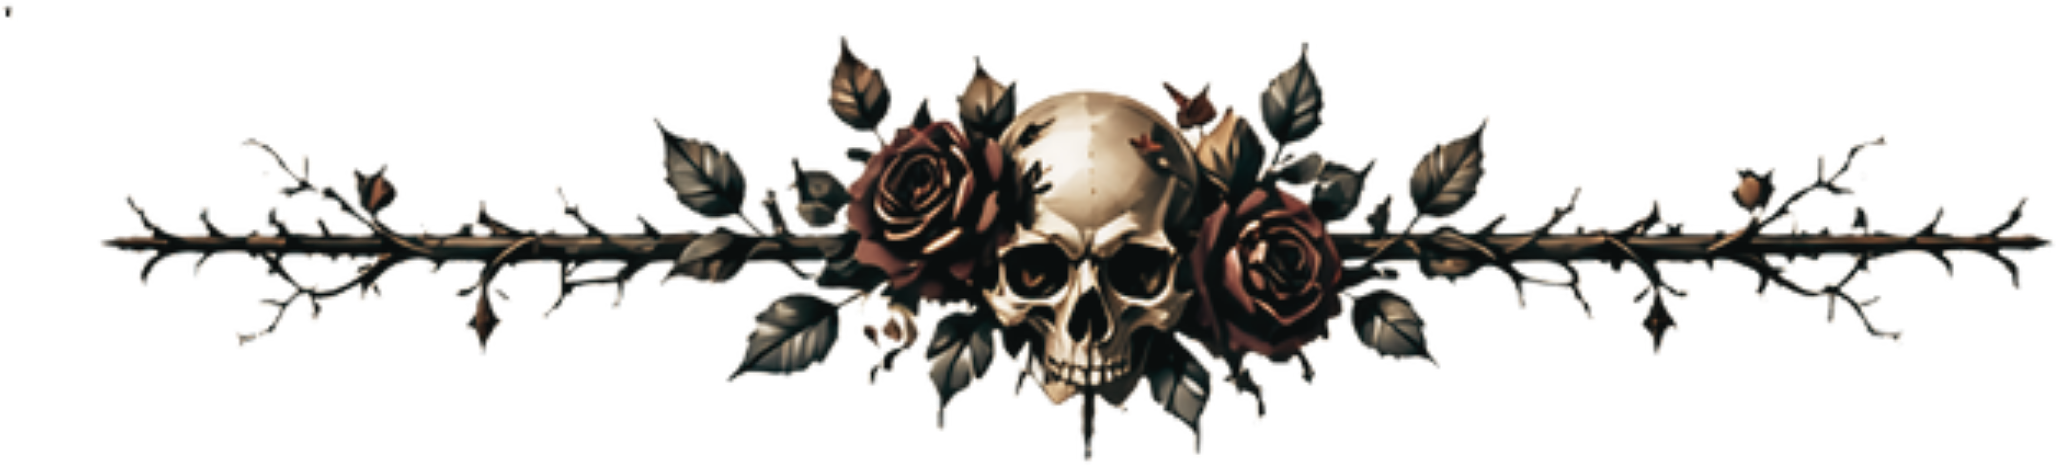
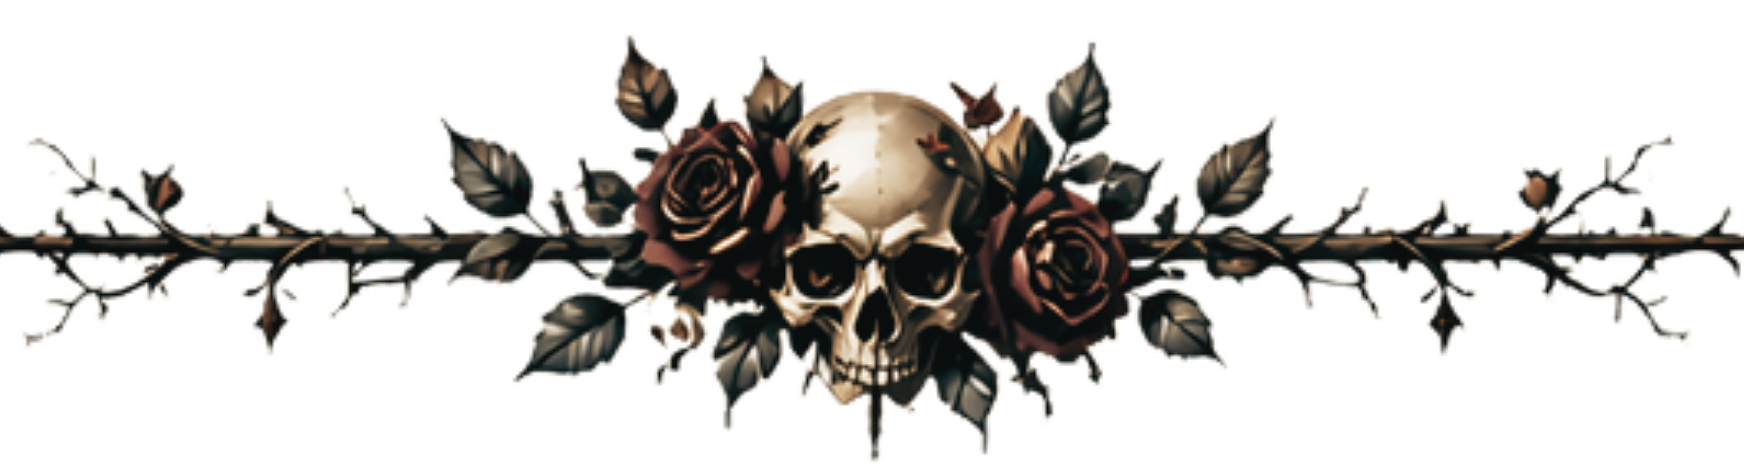
feat: implement gothic-themed design system, layout, and DecorativeDivider component

Changed region(s): [[0.0, 0.0903, 1.0, 0.9935], [0.0, 0.3011, 0.031, 0.3312]]

diff --git a/app/components/DecorativeDivider.vue b/app/components/DecorativeDivider.vue
@@ -1,99 +1,117 @@
 <template>
-  <div 
-    class="decorative-divider" 
-    :class="[`decorative-divider--${variant}`, `decorative-divider--${size}`]" 
-    aria-hidden="true"
-  >
-    <img 
-      :src="imageSrc" 
-      :alt="''" 
-      class="divider-image"
-      loading="lazy"
-    />
-  </div>
+    <div
+        class="decorative-divider"
+        :class="[
+            `decorative-divider--${variant}`,
+            `decorative-divider--${size}`,
+        ]"
+        aria-hidden="true"
+    >
+        <img :src="imageSrc" :alt="''" class="divider-image" loading="lazy" />
+    </div>
 </template>
 
 <script setup>
 const props = defineProps({
-  variant: {
-    type: String,
-    default: 'gothic-jewel',
-    validator: (v) => ['gothic-jewel', 'skull-roses', 'gothic-jewel-bottom', 'skull-roses-top'].includes(v)
-  },
-  size: {
-    type: String,
-    default: 'md',
-    validator: (v) => ['sm', 'md', 'lg'].includes(v)
-  }
+    variant: {
+        type: String,
+        default: "gothic-jewel",
+        validator: (v) =>
+            [
+                "gothic-jewel",
+                "skull-roses",
+                "gothic-jewel-bottom",
+                "skull-roses-top",
+            ].includes(v),
+    },
+    size: {
+        type: String,
+        default: "md",
+        validator: (v) => ["sm", "md", "lg"].includes(v),
+    },
 });
 
 const imageMap = {
-  'gothic-jewel': '/img/frames/horizontal_banner_center_gothic_jewel.png',
-  'skull-roses': '/img/frames/horizontal_banner_center_skull_roses.png',
-  'gothic-jewel-bottom': '/img/frames/horizontal_border_bottom_gothic_jewel_1.png',
-  'skull-roses-top': '/img/frames/horizontal_border_top_skulls_roses.png',
+    "gothic-jewel": "/img/frames/horizontal_banner_center_gothic_jewel.png",
+    "skull-roses": "/img/frames/horizontal_banner_center_skull_roses.png",
+    "gothic-jewel-bottom":
+        "/img/frames/horizontal_border_bottom_gothic_jewel_1.png",
+    "skull-roses-top": "/img/frames/horizontal_border_top_skulls_roses.png",
 };
 
-const imageSrc = computed(() => imageMap[props.variant] || imageMap['gothic-jewel']);
+const imageSrc = computed(
+    () => imageMap[props.variant] || imageMap["gothic-jewel"],
+);
 </script>
 
 <style scoped>
 .decorative-divider {
-  display: flex;
-  justify-content: center;
-  align-items: center;
-  width: 100%;
-  pointer-events: none;
-  user-select: none;
-  overflow: hidden;
+    display: flex;
+    justify-content: center;
+    align-items: center;
+    width: 100%;
+    height: 142px;
+    pointer-events: none;
+    user-select: none;
+    overflow: hidden;
 }
 
 .divider-image {
-  display: block;
-  width: 100%;
-  height: auto;
-  object-fit: contain;
-  filter: brightness(0.75) saturate(0.9);
-  opacity: 0.85;
-  transition: opacity 0.4s ease;
+    display: block;
+    width: 100%;
+    height: auto;
+    object-fit: contain;
+    filter: brightness(0.9) saturate(1)
+        drop-shadow(0 6px 15px rgba(0, 0, 0, 0.8));
+    opacity: 0.95;
+    transition: opacity 0.4s ease;
 }
 
 /* Size variants */
 .decorative-divider--sm .divider-image {
-  max-width: 280px;
+    max-width: 320px;
 }
 
 .decorative-divider--md .divider-image {
-  max-width: 480px;
+    max-width: 650px;
 }
 
 .decorative-divider--lg .divider-image {
-  max-width: 700px;
+    max-width: 900px;
 }
 
 /* Spacing */
 .decorative-divider--sm {
-  margin: 1rem auto;
+    margin: 1rem auto 0.25rem;
 }
 
 .decorative-divider--md {
-  margin: 1.5rem auto;
+    margin: 1.5rem auto 0.5rem;
 }
 
 .decorative-divider--lg {
-  margin: 2rem auto;
+    margin: 2rem auto 0.75rem;
 }
 
 /* Responsive: scale down on mobile */
-@media (max-width: 600px) {
-  .decorative-divider--sm .divider-image {
-    max-width: 180px;
-  }
-  .decorative-divider--md .divider-image {
-    max-width: 280px;
-  }
-  .decorative-divider--lg .divider-image {
-    max-width: 400px;
-  }
+@media (max-width: 768px) {
+    .decorative-divider--sm .divider-image {
+        max-width: 150px;
+    }
+    .decorative-divider--md .divider-image {
+        max-width: 220px;
+    }
+    .decorative-divider--lg .divider-image {
+        max-width: 320px;
+    }
+    .decorative-divider--sm {
+        margin: 0.75rem auto 0.15rem;
+    }
+    .decorative-divider--md {
+        margin: 1rem auto 0.25rem;
+    }
+    .decorative-divider--lg {
+        margin: 1.25rem auto 0.4rem;
+    }
 }
 </style>

diff --git a/app/layouts/default.vue b/app/layouts/default.vue
@@ -80,9 +80,6 @@
     </header>
 
     <main class="main-content">
-      <!-- Desktop vertical side borders -->
-      <div class="side-border side-border--left" aria-hidden="true"></div>
-      <div class="side-border side-border--right" aria-hidden="true"></div>
       <slot />
     </main>
 
@@ -470,51 +467,18 @@ watchEffect(() => {
   position: relative;
 }
 
-/* ─── Side Borders (Desktop only) ─── */
-.side-border {
-  display: none;
-  position: fixed;
-  top: 72px;
-  bottom: 0;
-  width: 60px;
-  z-index: 5;
-  pointer-events: none;
-  background-repeat: repeat-y;
-  background-size: 100% auto;
-  filter: brightness(0.5) saturate(0.7);
-  opacity: 0.4;
-}
-
-.side-border--left {
-  left: 0;
-  background-image: url('/img/frames/vertical_border_right_gothic_jewel_1.png');
-  background-position: center;
-  transform: scaleX(-1);
-}
-
-.side-border--right {
-  right: 0;
-  background-image: url('/img/frames/vertical_border_right_gothic_jewel_1.png');
-  background-position: center;
-}
-
-@media (min-width: 1400px) {
-  .side-border {
-    display: block;
-  }
-}
 
 /* ─── Footer Border ─── */
 .footer-border {
   display: flex;
   justify-content: center;
   align-items: center;
+  width: 100%;
   overflow: hidden;
   pointer-events: none;
   user-select: none;
-  margin: 0 auto;
+  margin: 1.5rem auto 0.5rem;
   padding: 0;
-  max-width: 600px;
 }
 
 .footer-border-img {
@@ -523,8 +487,17 @@ watchEffect(() => {
   max-width: 500px;
   height: auto;
   object-fit: contain;
-  filter: brightness(0.6) saturate(0.8);
-  opacity: 0.7;
+  filter: brightness(0.85) saturate(0.9) drop-shadow(0 6px 15px rgba(0, 0, 0, 0.8));
+  opacity: 0.95;
+}
+
+@media (max-width: 768px) {
+  .footer-border {
+    margin: 1rem auto 0.25rem;
+  }
+  .footer-border-img {
+    max-width: 240px;
+  }
 }
 
 .footer {

diff --git a/app/pages/login.vue b/app/pages/login.vue
@@ -1,6 +1,9 @@
 <template>
   <div class="login-page">
     <GlassCard class="login-container">
+      <div class="login-logo-wrapper">
+        <div class="login-logo">M &amp; J</div>
+      </div>
       <PageHeader 
         title="Welcome" 
         subtitle="The Griffin Wedding" 
@@ -155,7 +158,7 @@ const handleSubmit = async () => {
   display: flex;
   align-items: center;
   justify-content: center;
-  background: linear-gradient(rgba(28, 28, 28, 0.7), rgba(28, 28, 28, 0.9)), url('/hero-bg.jpg') center/cover;
+  background: radial-gradient(circle at 50% 30%, var(--color-purple-glow) 0%, var(--color-purple-dark) 70%);
   padding: var(--spacing-md);
 }
 
@@ -163,6 +166,22 @@ const handleSubmit = async () => {
   width: 100%;
   max-width: 450px;
   padding: var(--spacing-xl) var(--spacing-md);
+}
+
+.login-logo-wrapper {
+  display: flex;
+  justify-content: center;
+  margin-bottom: 1.5rem;
+}
+
+.login-logo {
+  font-family: var(--font-heading);
+  font-size: 2.2rem;
+  font-weight: 500;
+  letter-spacing: 0.2em;
+  color: var(--color-primary);
+  text-transform: uppercase;
+  text-shadow: 0 0 10px rgba(197, 168, 128, 0.3);
 }
 
 .text-center {

diff --git a/app/assets/css/main.css b/app/assets/css/main.css
@@ -23,9 +23,13 @@
   --color-sapphire-muted: #36495d;
   --color-sapphire-muted-hover: #475e7a;
   
+  /* Dark Purple Palette */
+  --color-purple-dark: #110d14; /* Muted grayish purple-black */
+  --color-purple-glow: #231c2b; /* Muted grayish purple glow */
+  
   --color-link: var(--color-green-desaturated);
   --color-link-hover: var(--color-green-desaturated-hover);
-  --color-background: var(--color-charcoal);
+  --color-background: var(--color-purple-dark);
   --color-text: var(--color-cream-muted);
   --color-primary: var(--color-gold);
   --color-secondary: var(--color-sapphire-muted);
@@ -61,7 +65,7 @@ body {
   color: var(--color-text);
   line-height: 1.7;
   letter-spacing: 0.02em;
-  background-image: radial-gradient(circle at 50% 30%, #1c1717 0%, var(--color-charcoal) 70%);
+  background-image: radial-gradient(circle at 50% 30%, var(--color-purple-glow) 0%, var(--color-purple-dark) 70%);
   background-attachment: fixed;
 }
 
@@ -149,6 +153,12 @@ a:hover {
   max-width: 1200px;
   margin: 0 auto;
   padding: 0 var(--spacing-sm);
+}
+
+@media (max-width: 768px) {
+  .container {
+    padding: 0 1.5rem;
+  }
 }
 
 .section {

diff --git a/app/pages/index.vue b/app/pages/index.vue
@@ -160,9 +160,6 @@
             <h2 class="text-center mb-md">Gallery</h2>
             <ImageCarousel placeholderText="Our Favorite Memories" />
         </section>
-
-        <!-- Decorative section divider at bottom -->
-        <DecorativeDivider variant="gothic-jewel-bottom" size="md" />
     </div>
 </template>
 
@@ -227,7 +224,7 @@ const daysRemainingText = computed(() => {
 
 <style scoped>
 .landing-page {
-    background-color: var(--color-charcoal);
+    background-color: transparent;
     min-height: 100vh;
     overflow-x: hidden;
 }
